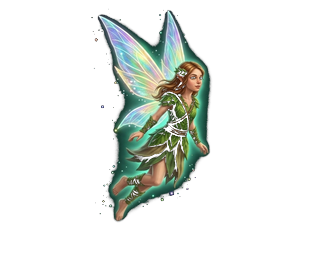
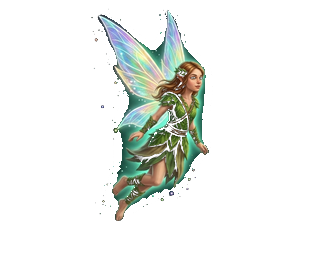
## Fairy Green Halo Removed (verified in flight) - Stripped the dark-teal outline baked into both pixie sprite frames and swapped her green CSS glow for a soft warm shimmer — she now flies with a clean silhouette in every realm corner - FF_BUILD at 2026.06-527 — the full publish batch remains ready 

Changed region(s): [[0.3125, 0.0286, 0.6562, 0.8], [0.3125, 0.0857, 0.3438, 0.1714], [0.3438, 0.0571, 0.375, 0.0857]]

diff --git a/frontend/public/index.html b/frontend/public/index.html
@@ -60,7 +60,7 @@
         <title>Fork·Fate — Restaurant Roulette</title>
         <script>window.addEventListener("error",function(e){if(e.error instanceof DOMException&&e.error.name==="DataCloneError"&&e.message&&e.message.includes("PerformanceServerTiming")){e.stopImmediatePropagation();e.preventDefault()}},true);</script>
         <script>(function(){try{if('serviceWorker' in navigator){window.addEventListener('load',function(){navigator.serviceWorker.register('/service-worker.js',{scope:'/'}).catch(function(){});});}}catch(e){}})();</script>
-        <script>(function(){try{var FF_BUILD="2026.06-526";var prev=localStorage.getItem("ff_build");if(prev!==FF_BUILD){localStorage.setItem("ff_build",FF_BUILD);if(window.caches&&caches.keys){caches.keys().then(function(keys){keys.forEach(function(k){caches.delete(k);});});}if(prev&&!sessionStorage.getItem("ff_build_reloaded")){sessionStorage.setItem("ff_build_reloaded","1");location.reload(true);}}}catch(e){}})();</script>
+        <script>(function(){try{var FF_BUILD="2026.06-527";var prev=localStorage.getItem("ff_build");if(prev!==FF_BUILD){localStorage.setItem("ff_build",FF_BUILD);if(window.caches&&caches.keys){caches.keys().then(function(keys){keys.forEach(function(k){caches.delete(k);});});}if(prev&&!sessionStorage.getItem("ff_build_reloaded")){sessionStorage.setItem("ff_build_reloaded","1");location.reload(true);}}}catch(e){}})();</script>
         <script src="https://assets.emergent.sh/scripts/emergent-main.js"></script>
         <!-- Google Analytics 4 -->
         <script async src="https://www.googletagmanager.com/gtag/js?id=G-4E739B8J0H"></script>

diff --git a/frontend/src/components/scenes/AmbianceScene.jsx b/frontend/src/components/scenes/AmbianceScene.jsx
@@ -1406,7 +1406,7 @@ export function AmbianceScene({ theme, cfg, heistEpoch = 0 }) {
     )}
     {cfg.saucer && <SaucerAbduction key={`sa-${heistEpoch}`} saucer={cfg.saucer} onActive={setAbducting} />}
     {cfg.cars && <HotPursuitHeist key={`hp-${heistEpoch}`} />}
-    {cfg.gully && <CompanionPatrol s1="/fairy-pixie-1.png" s2="/fairy-pixie-2.png" glow="rgba(94,224,168,0.7)" heistKind="poof" testid="fairy-pixie" />}
+    {cfg.gully && <CompanionPatrol s1="/fairy-pixie-1.png?v=527" s2="/fairy-pixie-2.png?v=527" glow="rgba(255,244,214,0.45)" heistKind="poof" testid="fairy-pixie" />}
     {cfg.gully && <UnicornChargeHeist />}
     {theme === "fantasy" && <CompanionPatrol s1="/dragon-tiny-1.png" s2="/dragon-tiny-2.png" glow="rgba(255,140,50,0.7)" dustCol={["#FFE9B0", "#FF8C3A"]} heistKind="breath" testid="tiny-dragon" flap="ffDragonFlap 3.4s linear infinite" flapBase="ffDragonFlapInv 3.4s linear infinite" />}
     {theme === "fantasy" && <DragonHeist key={`dh-${heistEpoch}`} />}

diff --git a/memory/CHANGELOG.md b/memory/CHANGELOG.md
@@ -1123,3 +1123,9 @@ ROADMAP idea (user): future categories beyond food/drinks/bars/desserts -> antiq
   .ff-bg-fit contain rule, .ff-bg-blurfill imgs/rules, and the contain
   branch in useCoverAnchor (pure cover again). ff-lsp-* prop spread kept.
 - Verified 844x390: painting fills edge to edge.
+
+## 2026-02 (fork) — Pixie green halo removed (FF_BUILD 527)
+- Two causes: (1) baked dark-teal outline in fairy-pixie-1/2.png — stripped
+  ~3.5k px each (teal hue band within 6px of alpha edge or semi-transparent);
+  (2) CSS glow prop was green rgba(94,224,168,.7) -> warm white
+  rgba(255,244,214,.45). Sprites at ?v=527.
